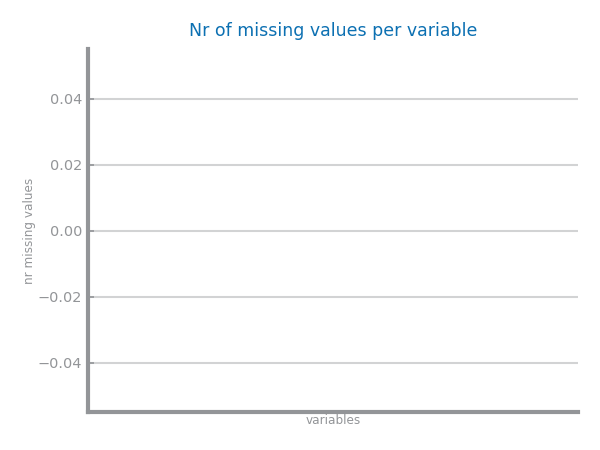
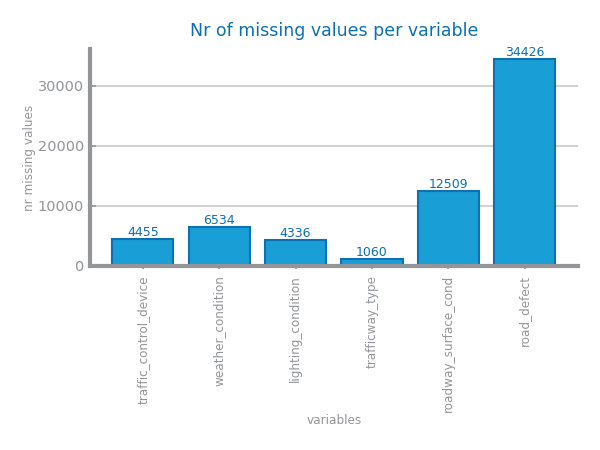
Fix: altered dimensionality.py and some other files

Changed region(s): [[0.03, 0.0933, 0.96, 0.9644], [0.3, 0.0311, 0.81, 0.0933]]

diff --git a/labs/lab2/dimensionality.py b/labs/lab2/dimensionality.py
@@ -8,12 +8,11 @@ sys.path.insert(0, os.path.join(os.path.dirname(__file__), '..'))
 
 from utils.dslabs_functions import get_variable_types, plot_bar_chart
 
+# credit_score_filename: str = "../../classification/traffic_accidents.csv"
+# credit_score_savefig_path_prefix: str = "images/dimensionality/traffic_accidents/traffic_accidents"
 
-credit_score_filename: str = "../../classification/traffic_accidents.csv"
-credit_score_savefig_path_prefix: str = "images/dimensionality/traffic_accidents/traffic_accidents"
-
-# credit_score_filename: str = "../../classification/Combined_Flights_2022.csv"
-# credit_score_savefig_path_prefix: str = "images/dimensionality/Combined_Flights_2022/Combined_Flights_2022"
+credit_score_filename: str = "../../classification/Combined_Flights_2022.csv"
+credit_score_savefig_path_prefix: str = "images/dimensionality/Combined_Flights_2022/Combined_Flights_2022"
 
 credit_score_data: DataFrame = read_csv(credit_score_filename)
 
@@ -74,9 +73,13 @@ else:
 if run_credit_score_missing_values_analysis:
     credit_score_mv: dict[str, int] = {}
     for var in credit_score_data.columns:
-        nr: int = credit_score_data[var].isnull().sum()
-        if nr > 0:
-            credit_score_mv[var] = nr
+        s = credit_score_data[var]
+        nr_null = s.isnull().sum()
+        # count entries equal to "UNKNOWN" (case-insensitive, trimmed)
+        nr_unknown = s.astype(str).str.strip().str.upper().eq("UNKNOWN").sum()
+        total_missing = int(nr_null) + int(nr_unknown)
+        if total_missing > 0:
+            credit_score_mv[var] = total_missing
 
     plt.figure()
     plot_bar_chart(

diff --git a/labs/utils/config.py b/labs/utils/config.py
@@ -1,12 +1,19 @@
 from matplotlib.pyplot import rcParams, style
 from matplotlib.colors import LinearSegmentedColormap
+from pathlib import Path
 from warnings import simplefilter
 from cycler import cycler
 
 # _________________________________________ STYLE ____________________________________________________
 simplefilter("ignore")
-style.use("dslabs.mplstyle")
+# get the path of the current file (config.py)
+config_dir = Path(__file__).parent
 
+# build the absolute path to dslabs.mplstyle in the same folder
+style_file = config_dir / "dslabs.mplstyle"
+
+# use it
+style.use(style_file)
 HATCHES = [".", "..", "...", "o"]  # ['/', '+', 'X', '*'] #'oo', 'OO', '..'
 
 my_palette = {

diff --git a/labs/utils/dslabs_functions.py b/labs/utils/dslabs_functions.py
@@ -29,7 +29,7 @@ from sklearn.metrics import confusion_matrix, RocCurveDisplay, roc_auc_score
 from sklearn.naive_bayes import _BaseNB, GaussianNB, MultinomialNB, BernoulliNB
 from sklearn.neighbors import KNeighborsClassifier
 
-from config import (
+from .config import (
     ACTIVE_COLORS,
     LINE_COLOR,
     FILL_COLOR,

diff --git a/README.md b/README.md
@@ -145,6 +145,11 @@ Results are saved to `labs/lab1/results/[dataset_name]/`:
 8. **Evaluate** on test set
 9. **Generate charts and reports**
 
+## Lab 2: How to run
+
+1. cd ~/DSci-MEIC-IST
+2. python3 dimensionality.py
+
 ## Requirements
 
 - Python 3.8+
